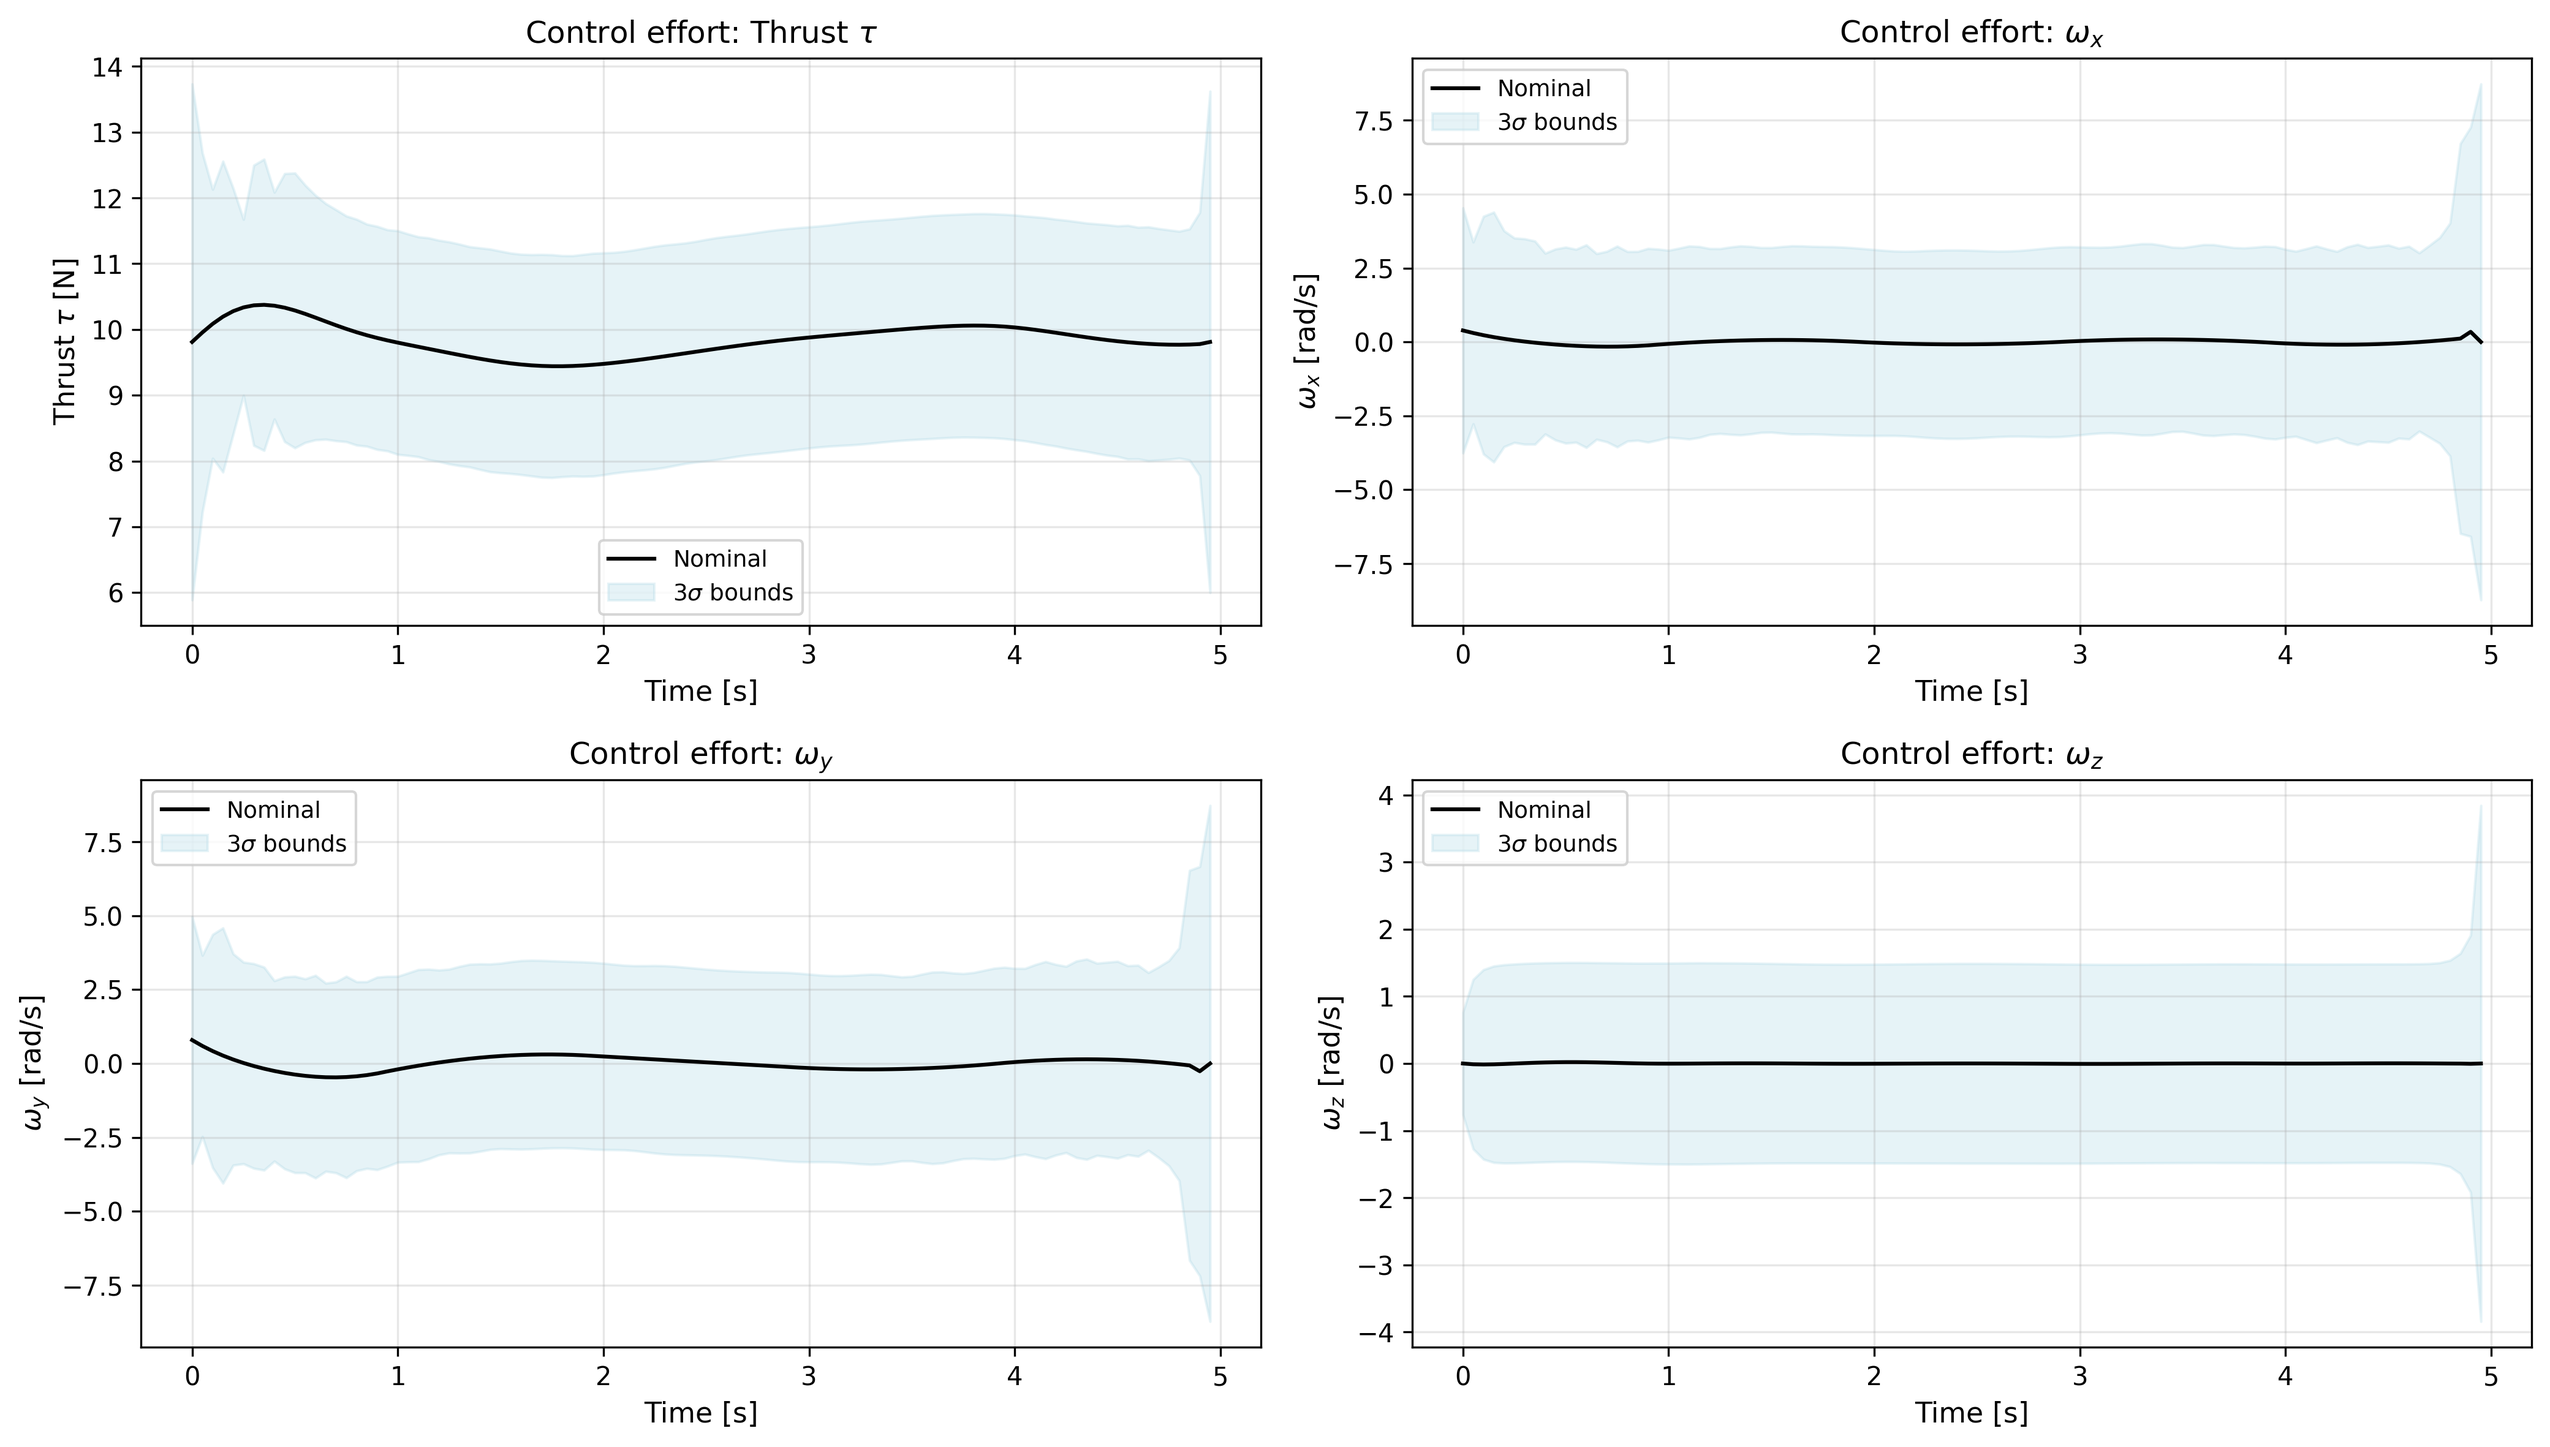
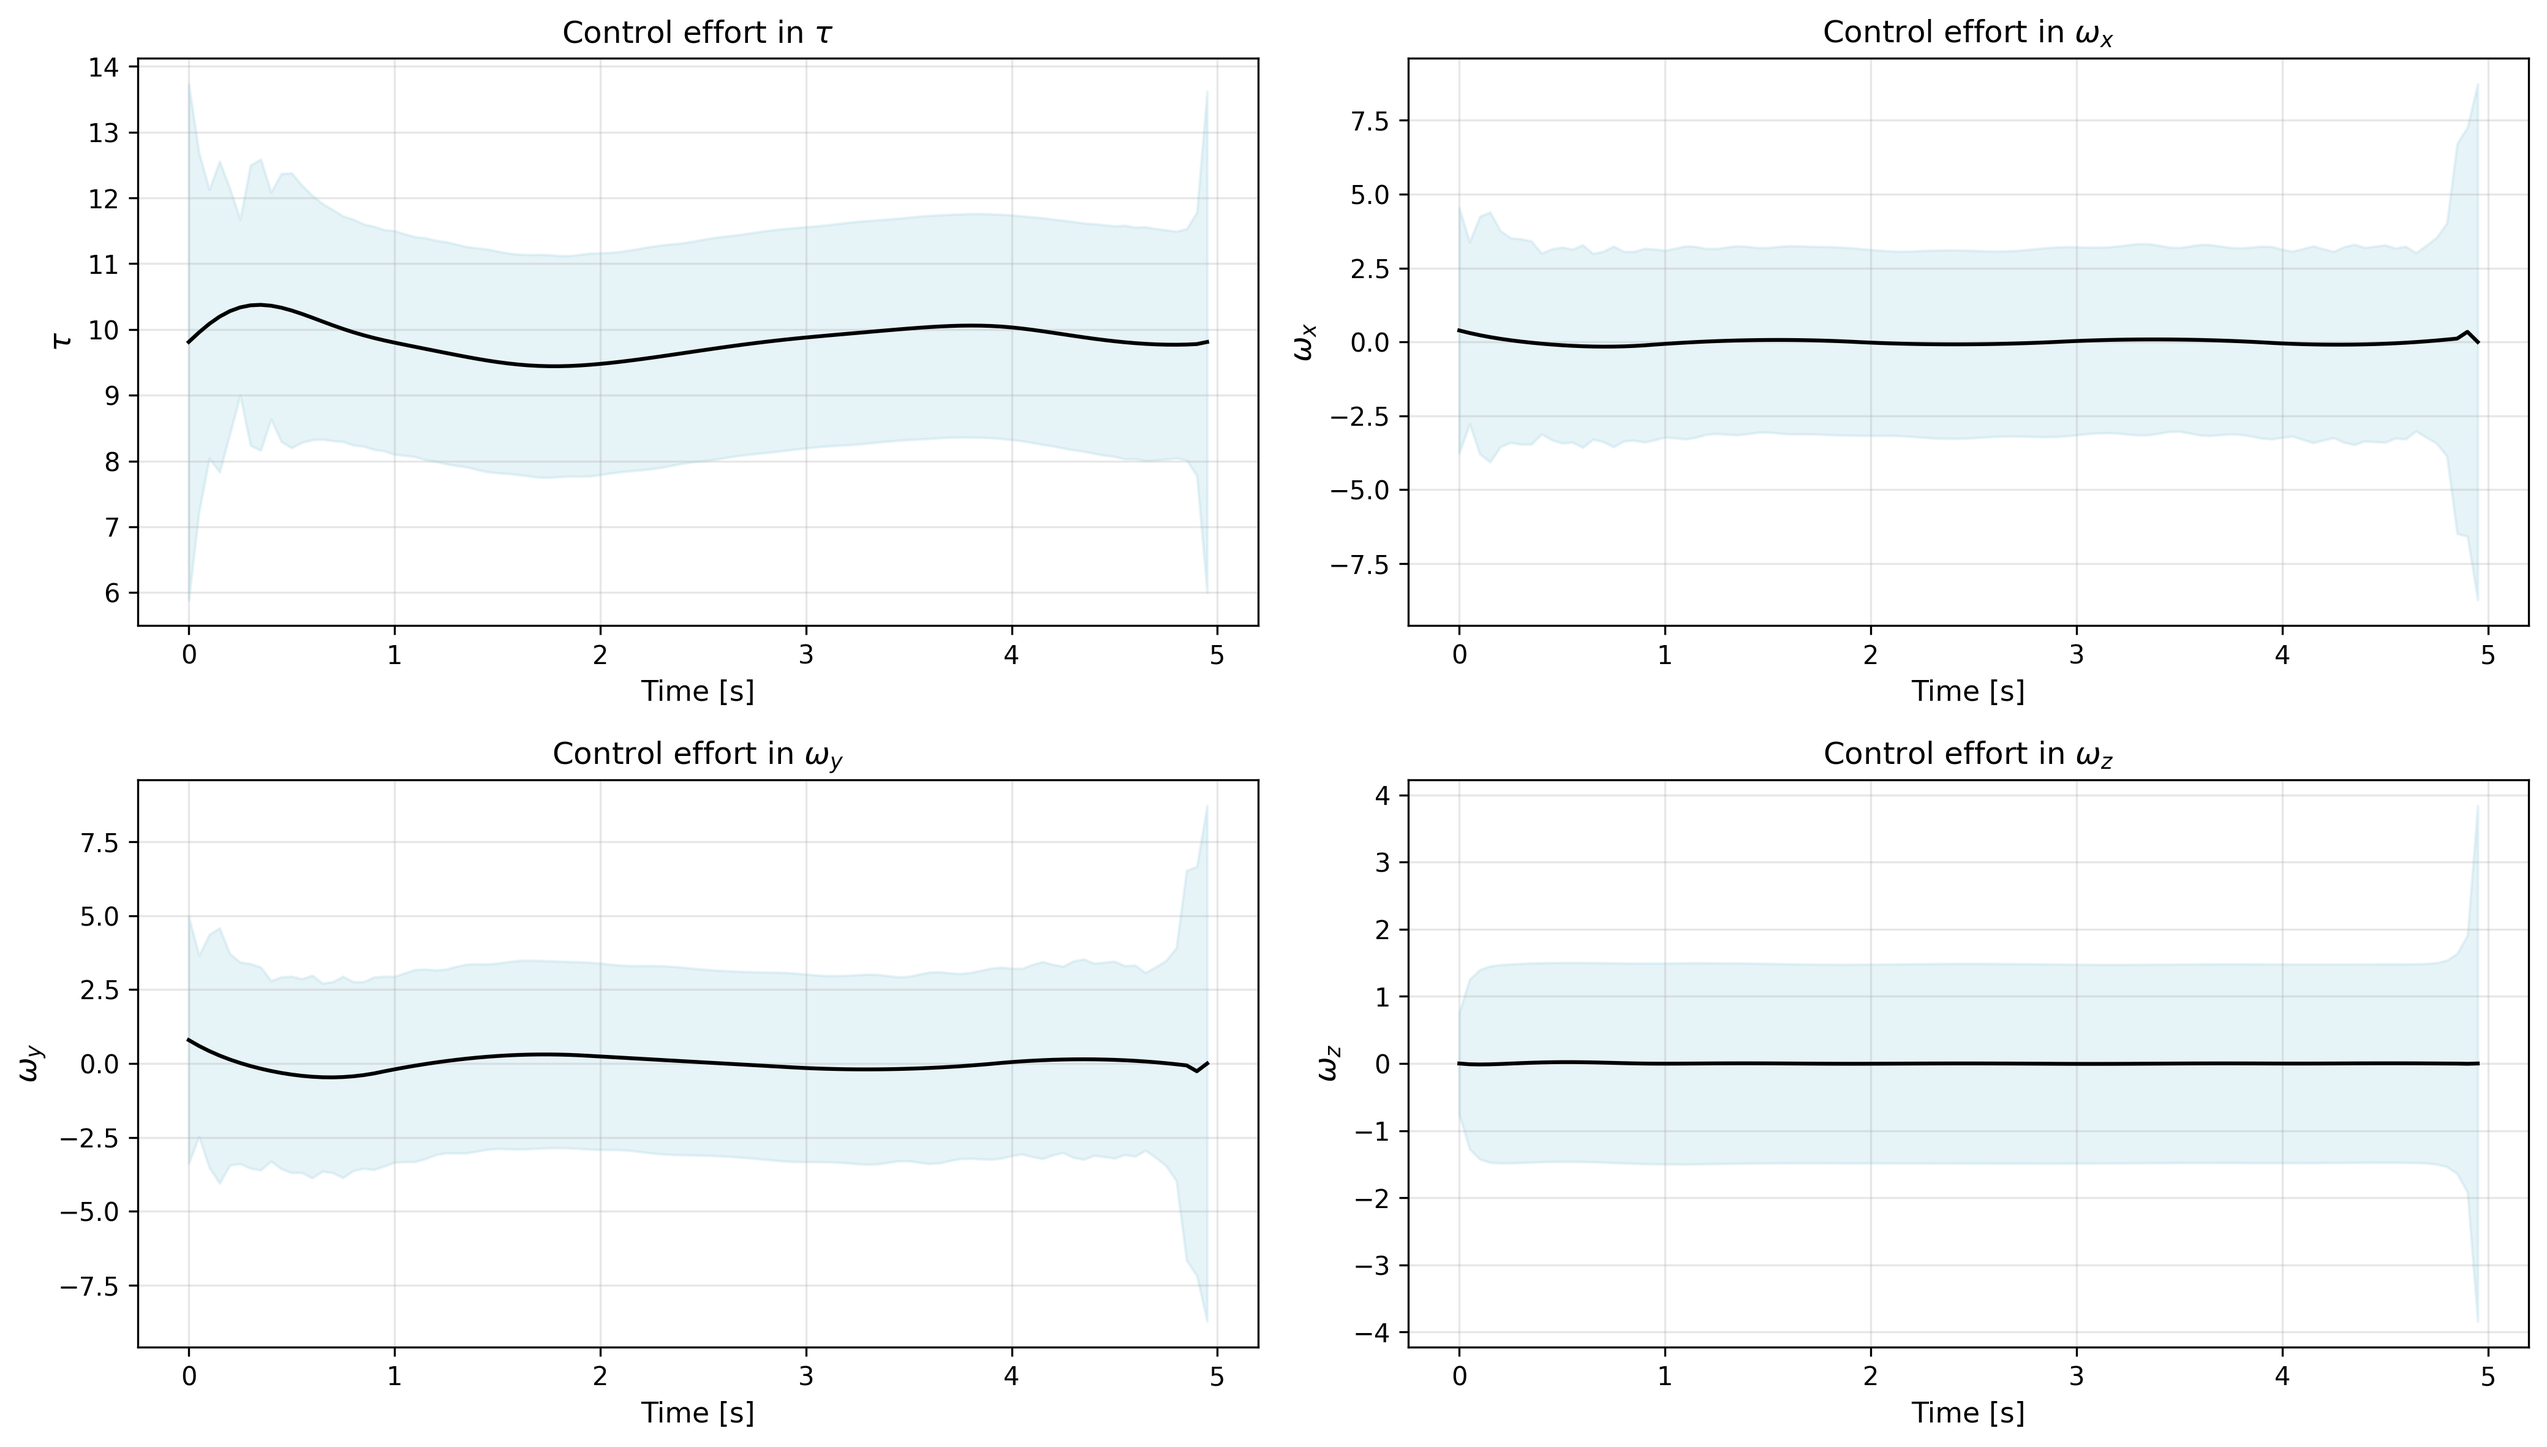
Polish Figure 4 titles, improve runtime benchmark robustness
- Update Figure 4 subplot titles to match paper style
- Use SCS solver consistently for runtime benchmarks
- Add .gitignore for __pycache__

https://claude.ai/code/session_0168WnZpfmT8bmtCsvycSSFq

diff --git a/sdp_covariance_steering/runtime_comparison.py b/sdp_covariance_steering/runtime_comparison.py
@@ -120,7 +120,7 @@ def compute_problem_size_approach2(n, p, N):
     return N * p * n
 
 
-def run_benchmark_proposed(n, p, N, max_time=300):
+def run_benchmark_proposed(n, p, N, max_time=600):
     """
     Run the proposed SDP approach and measure runtime.
     """
@@ -141,26 +141,21 @@ def run_benchmark_proposed(n, p, N, max_time=300):
     Q_list = [np.eye(n)] * N
     R_list = [np.eye(p)] * N
 
-    # Measure runtime — try SCS first (more robust), fall back to CLARABEL
-    for solver in [cp.SCS, cp.CLARABEL]:
-        start_time = time.time()
-        try:
-            Sigma_traj, U_traj, Y_traj, K_traj, cost_cov = \
-                solve_covariance_steering_sdp(
-                    A_list, B_list, D_list, Sigma_i, Sigma_f, N, Q_list, R_list,
-                    terminal_ineq=False,
-                    solver=solver, verbose=False
-                )
-            elapsed = time.time() - start_time
-            return elapsed
-        except Exception as e:
-            elapsed = time.time() - start_time
-            if elapsed > max_time:
-                return None
-            continue
-
-    print(f"    All solvers failed (n={n}, N={N})")
-    return None
+    # Use SCS for all cases (more robust for SDPs)
+    start_time = time.time()
+    try:
+        Sigma_traj, U_traj, Y_traj, K_traj, cost_cov = \
+            solve_covariance_steering_sdp(
+                A_list, B_list, D_list, Sigma_i, Sigma_f, N, Q_list, R_list,
+                terminal_ineq=False,
+                solver=cp.SCS, verbose=False
+            )
+        elapsed = time.time() - start_time
+        return elapsed
+    except Exception as e:
+        elapsed = time.time() - start_time
+        print(f"    SCS failed (n={n}, N={N}): {e}")
+        return None
 
 
 def run_table1():

diff --git a/sdp_covariance_steering/example2_nonlinear_quadrotor.py b/sdp_covariance_steering/example2_nonlinear_quadrotor.py
@@ -242,24 +242,21 @@ def plot_figure4(u_nom, Y_traj, K_traj, Sigma_traj, N, dt):
     time = np.arange(N) * dt
 
     fig, axes = plt.subplots(2, 2, figsize=(14, 8))
-    control_labels = ['Thrust $\\tau$', '$\\omega_x$', '$\\omega_y$', '$\\omega_z$']
-    control_units = ['[N]', '[rad/s]', '[rad/s]', '[rad/s]']
+    control_labels = ['$\\tau$', '$\\omega_x$', '$\\omega_y$', '$\\omega_z$']
 
     for i, ax in enumerate(axes.flat):
-        # Nominal control
-        ax.plot(time, u_nom[:, i], 'k-', linewidth=1.5, label='Nominal')
+        # Nominal control (black line)
+        ax.plot(time, u_nom[:, i], 'k-', linewidth=1.5)
 
-        # 3-sigma bounds from Y_k (control covariance approximation)
+        # 3-sigma bounds from Y_k (light blue shading)
         sigma_u = np.array([np.sqrt(max(Y_traj[k, i, i], 0)) for k in range(N)])
         upper = u_nom[:, i] + 3 * sigma_u
         lower = u_nom[:, i] - 3 * sigma_u
-        ax.fill_between(time, lower, upper, alpha=0.3, color='lightblue',
-                        label='$3\\sigma$ bounds')
+        ax.fill_between(time, lower, upper, alpha=0.3, color='lightblue')
 
         ax.set_xlabel('Time [s]', fontsize=11)
-        ax.set_ylabel(f'{control_labels[i]} {control_units[i]}', fontsize=11)
-        ax.set_title(f'Control effort: {control_labels[i]}', fontsize=12)
-        ax.legend(fontsize=9)
+        ax.set_ylabel(control_labels[i], fontsize=12)
+        ax.set_title(f'Control effort in {control_labels[i]}', fontsize=12)
         ax.grid(True, alpha=0.3)
 
     plt.tight_layout()
